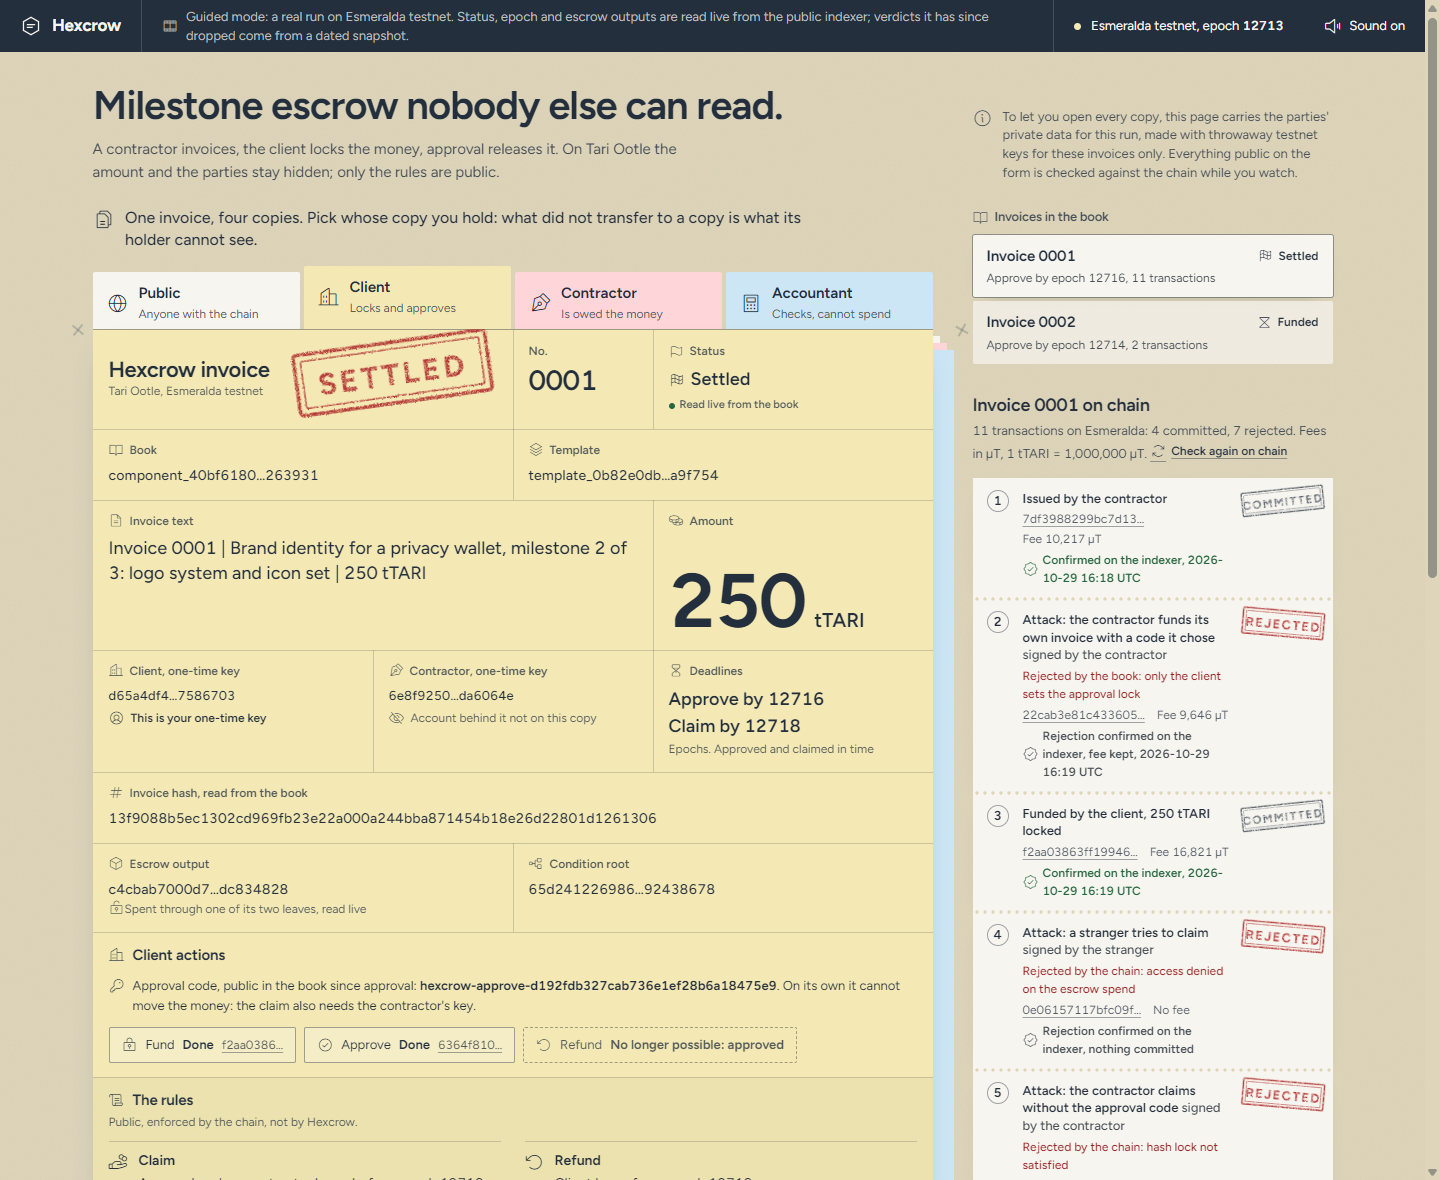
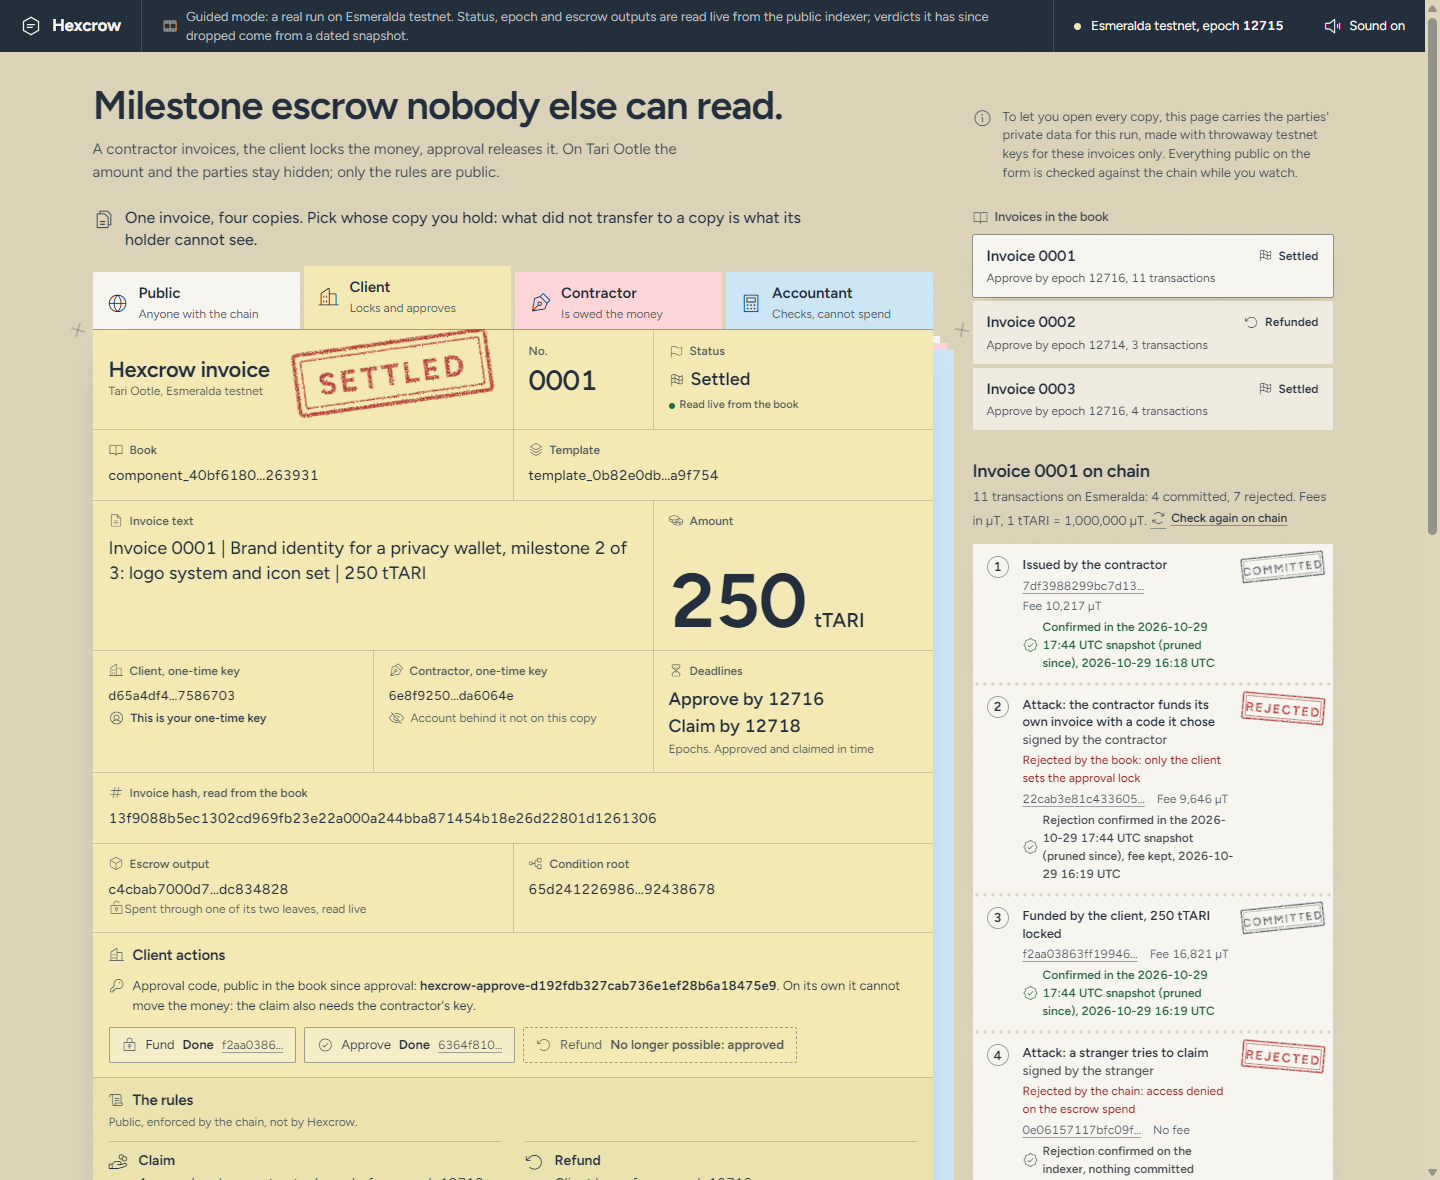
feat: refund invoice 2 after its claim window; read rejected results in short form
Invoice 2 was never approved, so the client refunded it at epoch 12715
(19ecd21f..., Commit). The book now reads 3, 4, 3; PROOF.md lists the
refund and tells both runs of verify 2; the README screenshots show all
three invoices.

The indexer now answers some rejected transactions with a short
`Rejected` result instead of `Finalized`, which the demo showed as not
finalized. It now reads them as confirmed rejections, and PROOF.md
describes the short form.

Changed region(s): [[0.6562, 0.3051, 0.9375, 1.0], [0.9688, 0.4576, 1.0, 0.4881]]

diff --git a/web/app.js b/web/app.js
@@ -117,6 +117,9 @@
 
   // A verdict as the indexer finalized it, compared with what the run recorded.
   function readVerdict(json, row) {
+    // After a while the indexer keeps only this short form for a transaction the chain rejected.
+    const rejected = json.result && json.result.Rejected;
+    if (rejected) return judge({ final_decision: 'Reject', result: 'Reject', finalized_time: rejected.rejected_time }, row, 'on the indexer');
     const fin = json.result && json.result.Finalized;
     if (!fin) return { state: 'bad', text: 'Not finalized on the indexer' };
     const res = fin.execution_result && fin.execution_result.finalize && fin.execution_result.finalize.result;
@@ -132,8 +135,9 @@
     return { state: 'neutral', text: `Rejection confirmed ${where}, nothing committed` };
   }
 
-  // The indexer prunes transactions after 50 epochs. A 404 then falls back to the verdict
-  // snapshotted from the same indexer (tools/snapshot_verdicts.py), labelled as such.
+  // The indexer prunes transaction results within a few epochs, whatever its /info advertises.
+  // A 404 then falls back to the verdict snapshotted from the same indexer
+  // (tools/snapshot_verdicts.py), labelled as such.
   function fromSnapshot(row) {
     const snap = state.snapshot && state.snapshot.verdicts[row.tx];
     if (!snap) return { state: 'off', text: 'Pruned from the indexer, no snapshot' };

diff --git a/PROOF.md b/PROOF.md
@@ -24,7 +24,7 @@ The verdict of any transaction:
 curl -s https://ootle-indexer-a.tari.com/transactions/<id>/result
 ```
 
-Under `result.Finalized`: `final_decision` is `Commit` or `{"Abort": "ExecutionFailure"}`, and `execution_result.finalize.result` is `Accept`, `AcceptFeeRejectRest` (the main instructions were rejected and only the fee was taken), or `Reject` with the reason.
+Under `result.Finalized`: `final_decision` is `Commit` or `{"Abort": "ExecutionFailure"}`, and `execution_result.finalize.result` is `Accept`, `AcceptFeeRejectRest` (the main instructions were rejected and only the fee was taken), or `Reject` with the reason. After a while, a transaction the chain rejected may come back in a short form instead, `{"result": {"Rejected": {"details": "<reason>", "rejected_time": "<time>"}}}`, with the same reason.
 
 **Transaction results expire.** The indexers advertise a 50-epoch retention, but on 29 October they dropped results in fewer than 10 epochs. If a `transactions/<id>/result` call answers 404, the result as the indexer served it right after the run is in [evidence/indexer-results/](evidence/indexer-results/)`<id>.json`. The book and the escrow substates above do not expire.
 
@@ -63,9 +63,9 @@ Approve before epoch 12714, claim before epoch 12715. Its own keys: client `fab7
 |---|---|---|---|---|
[2 lines of base64/hex data omitted]
-| 3 | Refund from epoch 12715 | client (co-signing with the invoice's escrow key) | `REFUND_TX_2` | `Accept` |
[1 lines of base64/hex data omitted]
 
-The contractor ran `hexcrow verify 2` after funding (`verify:2` in the run log, all checks passed).
+The contractor ran `hexcrow verify 2` after funding, recorded as `verify:2`. The first run failed the lock check because the CLI misread how the indexer returns the escrow's script; after that fix, the second run passed every check.
 
 ## Invoice 3: the next milestone, checked with the amount
 
